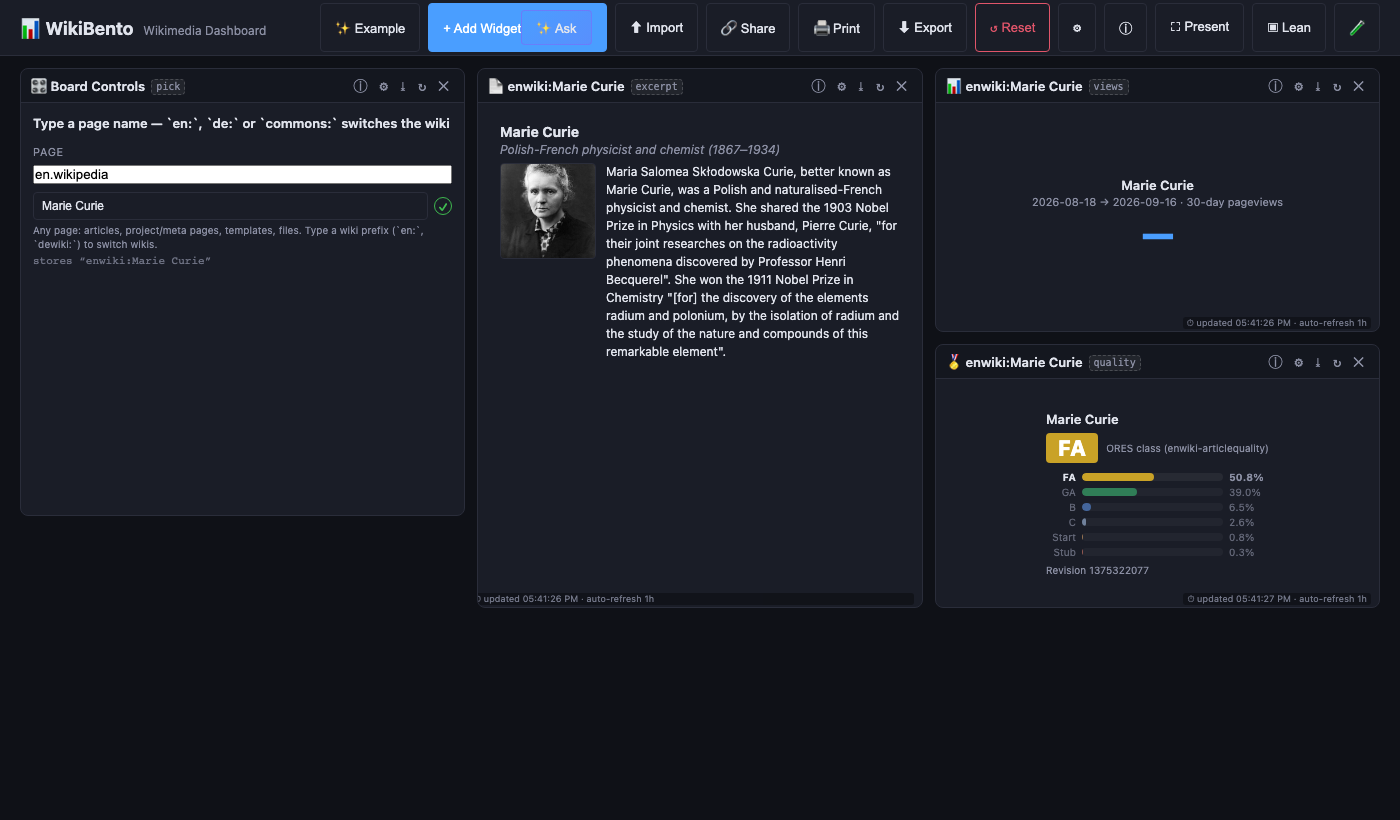
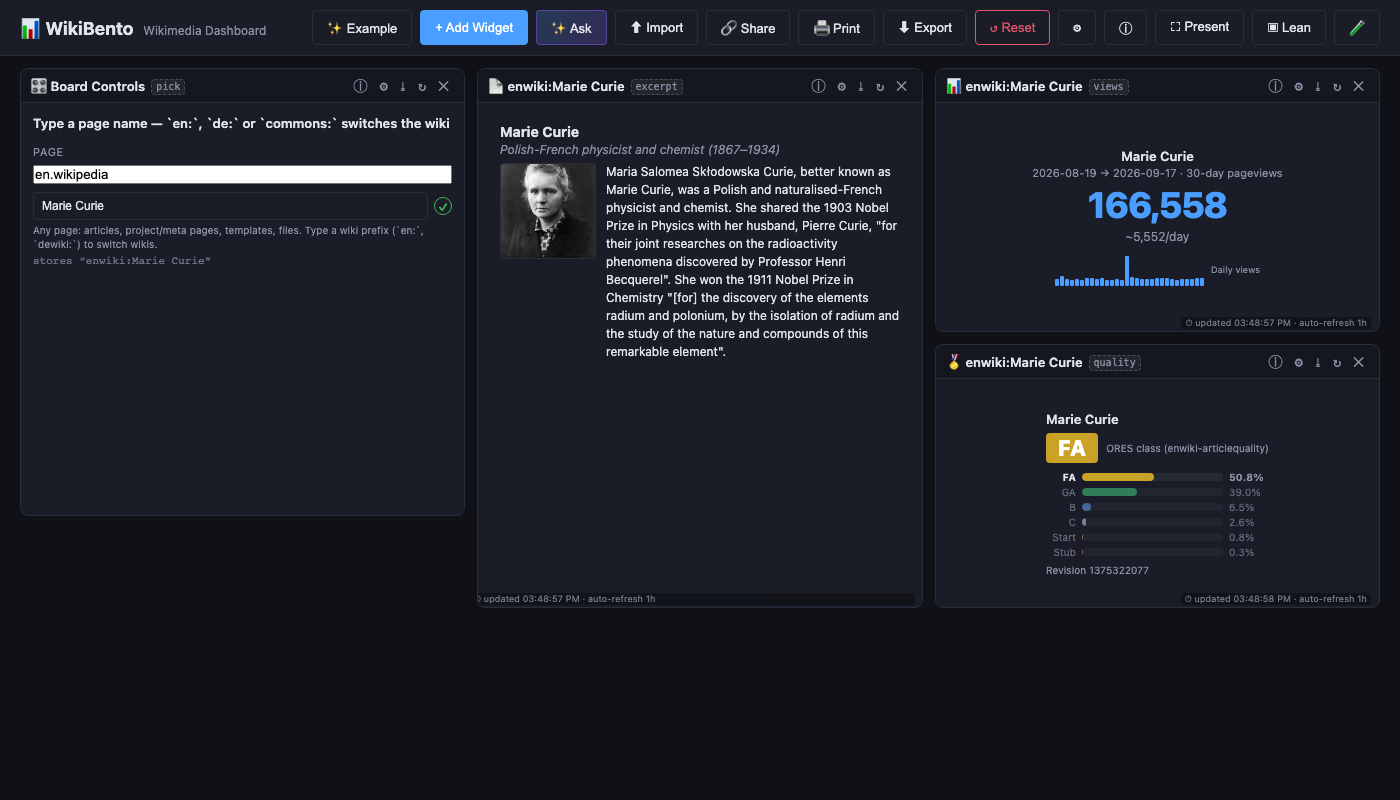
Fix the pageviews card that showed "—" instead of a number
Andrew: the "views" box on ?config=/page-picker-demo.json does not seem to be working.

It rendered a title, a date range and "—" where the count belongs, with nothing in the
console and no failed request. The fetch was fine all along: the request went to
en.wikipedia (not the dbname), returned 200 and 30 items. The bug was in the render:

  getRenderer:  config.displayMode === 'trend' ? TrendCard : StatCard   → absent ⇒ StatCard
  transform:    if (config.displayMode === 'stat') { stat } else { trend } → absent ⇒ TREND payload

So a board that omits `displayMode` got a trend payload drawn by the StatCard. Both now
resolve the mode through one function (PAGEVIEWS_MODE_DEFAULT + pageviewsMode(config)), and
a test asserts the renderer and the transform agree — for an absent field, an explicit value
and nonsense, plus that the registry default names the same mode.

WHY IT SURVIVED: every shipped board sets `displayMode` explicitly (stat or trend). Only the
new page-picker demo relies on the default — which is exactly why it found this, and why
that board should stay as it is: it is now the one demo that exercises the default. This is
the ISSUE-94 lesson again — a registry default is only honoured if something reads it, and
here two somethings had to read it the same way.

AND WHY NOTHING CAUGHT IT: no error, no 4xx, no collapsed card, clean console. A card quietly
rendering its empty state is invisible to every check the demo sweep had, so the sweep gained
[…]

diff --git a/src/widgets/index.js b/src/widgets/index.js
@@ -45,6 +45,19 @@ import { parseRef, projectSite, projectRef, pageRef, resolvePageConfig, resolveR
 import { SPARQL_PRESETS, getPreset } from '../lib/sparqlPresets';
 import { buildTimeline } from '../lib/timeline';
 import { resolveMonth, shiftMonth, fmtMonth, fmtMonthRange, fmtDayRange, dayWindow } from '../lib/scope';
+
+/**
+ * The Article Pageviews display mode, resolved in ONE place (2026-09-18).
+ *
+ * `getRenderer` and `transform` both branch on `displayMode`, and they treated an ABSENT value differently: the
+ * renderer read "anything that is not 'trend' is StatCard" while the transform read "anything that is not 'stat'
+ * is the trend payload". A board that omitted the field therefore got a trend payload drawn by the StatCard — a
+ * title, a date range and **—** where the count should be. Every shipped board set `displayMode` explicitly, so it
+ * went unnoticed until a demo relied on the default. Registry defaults are only honoured if something reads them
+ * (the ISSUE-94 lesson); this is that, for a value two functions have to agree on.
+ */
+const PAGEVIEWS_MODE_DEFAULT = 'stat';
+const pageviewsMode = (config) => (config && config.displayMode === 'trend' ? 'trend' : PAGEVIEWS_MODE_DEFAULT);
 import { toLines, countOf } from '../lib/dataflow';
 import { fitEcLevel, QR_BYTE_CAPACITY, QR_DENSE_CHARS, QR_MAX_CHARS } from '../lib/qr';
 
@@ -134,11 +147,11 @@ export const WIDGET_TYPES = {
     defaults: {
       article: 'Main_Page',
       project: 'en.wikipedia',
-      displayMode: 'stat', // 'stat' | 'trend'
+      displayMode: PAGEVIEWS_MODE_DEFAULT, // 'stat' | 'trend' — see pageviewsMode()
       refreshSeconds: 3600,
     },
     renderer: 'StatCard',
-    getRenderer: (config) => config.displayMode === 'trend' ? 'TrendCard' : 'StatCard',
+    getRenderer: (config) => (pageviewsMode(config) === 'trend' ? 'TrendCard' : 'StatCard'),
     dataSource: 'pageviews',
     configFields: [
       { key: 'article', label: 'Article', type: 'text', placeholder: 'Main_Page' },
@@ -151,7 +164,7 @@ export const WIDGET_TYPES = {
     ],
     fetch: (config) => { const p = pageRef(config, 'article'); return fetchPageviews(p.title, p.projectConfig); },
     transform: (data, config) => {
-      if (config.displayMode === 'stat') {
+      if (pageviewsMode(config) === 'stat') {
         return {
           title: `${data.article.replace(/_/g, ' ')}`,
           subtitle: `${(() => { const w = dayWindow(30); return fmtDayRange(w.start.year, w.start.month, w.start.day, w.end.year, w.end.month, w.end.day); })()} · 30-day pageviews`,

diff --git a/docs/DEPLOYMENTS.md b/docs/DEPLOYMENTS.md
@@ -48,6 +48,7 @@ for, not a claim about behaviour today.
 
 | date | bundle | commit | ships |
 |---|---|---|---|
+| 2026-09-18 | `index-CLCoetYx.js` | `8ee2698` | **The pageviews card showed "—" instead of a number (found on the page-picker demo).** `getRenderer` and `transform` read an absent `displayMode` differently — "not trend ⇒ StatCard" versus "not stat ⇒ the trend payload" — so a board omitting the field got a trend payload drawn as a stat card: title, date range, no count. Every shipped board set the field explicitly, which is why only a demo relying on the default exposed it. Both now resolve the mode through one function with a test that they agree. The sweep gained the check that would have caught it — a `.stat-value` of `—` is a failure (verified by restoring the old condition: it reports exactly "shows no value: views"). Live: 166,558 views, ~5,552/day, 30 spark bars. Demo sweep 64/64 clean against production. |
 | 2026-09-16 (fourteenth) | `index-Dv5Kc4UO.js` | `5e6eb8b` | **Every demo, every engine, desktop and phone (ISSUE-100).** Andrew reported an empty 📰 box on iPhone and asked whether the three-browser tests covered the demos — they loaded one board at one width. The sweep that now exists (15 boards × 3 engines × desktop + iPhone profile) found three bugs: `.widget-body`'s `flex: 1; min-height: 0` collapsed **every** phone-stack card to a 0px body (the reported symptom, reproduced in Chromium *and* WebKit, so never iOS-specific); Wikipedia serves a **navbox-stripped** parse to mobile User-Agents (22,820→5,780 bytes; `useskin`/`mobileformat` cannot change it, so the deployment relay re-fetches with the tool's own UA — 161 links restored on an iPhone profile); and a **static** widget was embedding a literal `{{widget:click-seas#selection}}` in an iframe, because ISSUE-58's unresolved-reference guard only applied to fetching widgets. Also fixed the two long-filed cosmetic bugs (✨ Ask nested inside + Add Widget; React's `key` spread into `<audio>`). Verified: **64/64 clean** against production with `--require-relay`. 581 tests. |
 | 2026-09-16 (thirteenth) | `index-CCKrq_yr.js` | `ef0de8b` | **The page box learns its wiki (ISSUE-99).** A validated `lookup` param of source `article` (or the new `page`, any namespace) now takes a `project`, grows the shared 364-wiki picker beside the input, validates against *that* wiki, and commits a **reference** (`dewiki:Weddellmeer`) — so the consumers carry no project field at all. A typed prefix (`en:`, `dewiki:`, `commons:File:X`) moves the picker as you type, which makes the interpretation visible rather than silent. Measured live: `de:Weddellmeer` → the Article Excerpt, Pageviews and Quality cards all re-fetched German content, a fictional title gave ✗ *no such page on de.wikipedia*. Two revisions recorded rather than skipped: a bare `File:`/`Category:` does **not** auto-switch to Commons (a category can live anywhere, and guessing would silently reinterpret it), and the special wikis need a short-name table because the reference grammar requires `commonswiki`. Also a bug the browser found: validation was asking for a page literally named `dewiki:Weddellmeer`, so a ✗ badge sat beside German text that was plainly rendering — fixed with the tested `lookupValidationTarget()`. New demo `?config=/page-picker-demo.json`. 579 tests. |
 | 2026-09-16 (twelfth) | `index-7xqRkO3-.js` | `da0add6` | **A chain that speaks in the right language (ISSUE-97's first typed value).** Four things Andrew asked for on the translate demo: the 🌐 Translator gained *Show* → original and translation / translation only / original only (defaulting to both, so nothing existing changed); the translation now travels with its language as a typed `speech` channel beside its text (`primary: 'translation'` keeps `{{widget:translate}}` meaning what it always meant); the 🔊 Speaker reads that channel through a `source` field, so the voice follows the language instead of the device default; and auto-speak now has something to say about the language it hears. Verified live with a fake voice roster: one click arms the speaker, then changing the article speaks the new French translation with `lang: fr-FR` and the French voice, no second click. Also fixed a crash the wired speaker exposed — `{{param}}` in JSX children is an object literal containing an undefined identifier (gotcha 27), hidden for months because it only renders for a speaker with no text. The project-picker gate caught a mis-generalisation: a language field has two vocabularies (a wiki, or `vocab: 'bcp47'`). 570 tests. |

diff --git a/HANDOFF.md b/HANDOFF.md
@@ -27,13 +27,13 @@ Feature-complete for v1 and deployed.
 | | |
 |---|---|
 | Live | <https://wikibento.toolforge.org/> |
-| production bundle | `index-Dv5Kc4UO.js` (+ `index-LCnQkRks.css`) |
-| deployed | 2026-09-16 — **the demos are swept in every engine at desktop and phone widths** (ISSUE-100): the phone-stack body collapse, Wikipedia's User-Agent-gated navbox strip and a static widget's literal `{{widget:…}}` iframe, all found and fixed · before that: **the page box knows its wiki** (ISSUE-99) · **a translation that knows its language** (ISSUE-97) · **Settings** + `translate` emitting (ISSUE-95) · **one picker for every wiki** (ISSUE-93) · **references everywhere** (ISSUE-92) · **click-through** (ISSUE-91) · **Wikipedia boxes** (ISSUE-90) · **compressed share links** (ISSUE-89) · **borrowed boards** (ISSUE-88) · the **URL contract** (ISSUE-87) |
+| production bundle | `index-CLCoetYx.js` (+ `index-LCnQkRks.css`) |
+| deployed | 2026-09-18 — **the pageviews card works again** (`getRenderer` and `transform` disagreed about an absent `displayMode`, so a board using the registry default drew a trend payload as a stat card: title, date range, "—") · before that: **the demos are swept in every engine at desktop and phone widths** (ISSUE-100) · the **page box that knows its wiki** (ISSUE-99) · a **translation that knows its language** (ISSUE-97) |
 | registry | 42 widget types — 33 data-driven, 9 static |
 | showcase catalog | `?config=/dashboard.json` — 43 widgets covering all 42 types |
 | front door for demos | `?config=/demos.json` (the hub) |
 | entry board | ✨ Example (3 starter widgets), or `?config=/article-switcher-demo.json` |
-| pending deploy | none — production serves this branch's tip; the demo sweep is 64/64 clean against it (`--require-relay`), and the click-through box renders 161 links on an iPhone profile |
+| pending deploy | none — production serves this branch's tip; the demo sweep is 64/64 clean against it (`--require-relay`, now including a "shows no value" check), the click-through box renders 161 links on an iPhone profile, and the page-picker's pageviews card reads 166,558 |
 | newest capabilities | 🔎 **one validated box, any wiki** — a page name with a wiki picker, a ✓/✗ verdict naming the wiki, an `en:`/`de:`/`commons:` prefix shortcut, and a *reference* as the value so consumers carry no project field (ISSUE-99) · ⚙ **Settings** (your wiki, recent wikis, present-mode fullscreen) · 🌍 **one picker for every wiki** — 364 projects, ordered recency → your default → curated → rest, searchable by label, code, script or English name (ISSUE-93) · 🧭 **references** — a page travels with its wiki (`enwiki:Weddell Sea`) and consumers honour it (ISSUE-92) · 👆 **click-through** — a link in a rendered box can publish what the reader clicked on a `selection` channel (ISSUE-91) · 📰 **Wikipedia boxes** rendered with the wiki's own markup and TemplateStyles (ISSUE-90) · 👀 **borrowed boards** — a shared link never overwrites yours (ISSUE-88) · ⤓ **compressed share links** so a big board still fits a QR (ISSUE-89) · 📄 **readers** for Commons documents and IA books, with the Wikisource transcription and its proofreading grade |
 
 **Every widget type is in the showcase catalog** — no exceptions, and

diff --git a/docs/VERIFIED-WORKING.md b/docs/VERIFIED-WORKING.md
@@ -11,6 +11,28 @@ Re-run the checks with `npm test`, `npm run smoke`, `npm run smoke:panels` and `
 
 Back to the [README](../README.md).
 
+## A card that showed "—" instead of a number, and why only a new demo could find it (2026-09-18)
+
+Andrew: *the "views" metrics box does not seem to be working* on `?config=/page-picker-demo.json`.
+
+- 🐛 **The renderer and the transform disagreed about an absent config field.** `getRenderer` read *"anything that
+  is not `trend` is a StatCard"*, while `transform` read *"anything that is not `stat` is the trend payload"* — so a
+  board that omitted `displayMode` got a trend payload drawn by a StatCard: a title, a date range, and **—** where
+  the count belongs. Both now resolve the mode through one function, and a test asserts they agree for absent,
+  explicit and nonsense values (the ISSUE-94 lesson exactly: a registry default is only honoured if something reads
+  it — here, two somethings that have to read it the same way).
+- 🔎 **Why every shipped board looked fine:** they all set `displayMode` explicitly. Only the new `page-picker-demo`
+  relied on the default — which is why the bug was invisible for as long as it was, and why it is worth keeping that
+  board as it is: it is now the one demo that exercises the default.
+- ✅ **Verified live:** the card reads **166,558** views, **~5,552/day**, with **30 spark bars**.
+- ❌ **And the checks that could not see it:** nothing errored, nothing 404ed (the request was 200 with 30 items —
+  the *transform* was at fault, not the fetch), no card was collapsed, and the console was clean. A card quietly
+  rendering its empty state is invisible to every check the sweep had, so the sweep gained one: **a `.stat-value`
+  of `—` is now a failure** ("shows no value: views"). Verified both ways — with the old condition restored it fails
+  with exactly the reported symptom, and with the fix it passes.
+- ✅ Checked rather than assumed: a non-OK response was *not* being swallowed — `fetchTextWithRetry` already throws on
+  any `!resp.ok`, which is also why the 200-with-data measurement above was conclusive.
+
 ## Every demo, every engine, both widths — and the three bugs that were hiding there (ISSUE-100, 2026-09-16)
 
 Andrew reported from an iPhone that `?config=/click-through-demo.json`'s 📰 box was empty, and asked whether the
